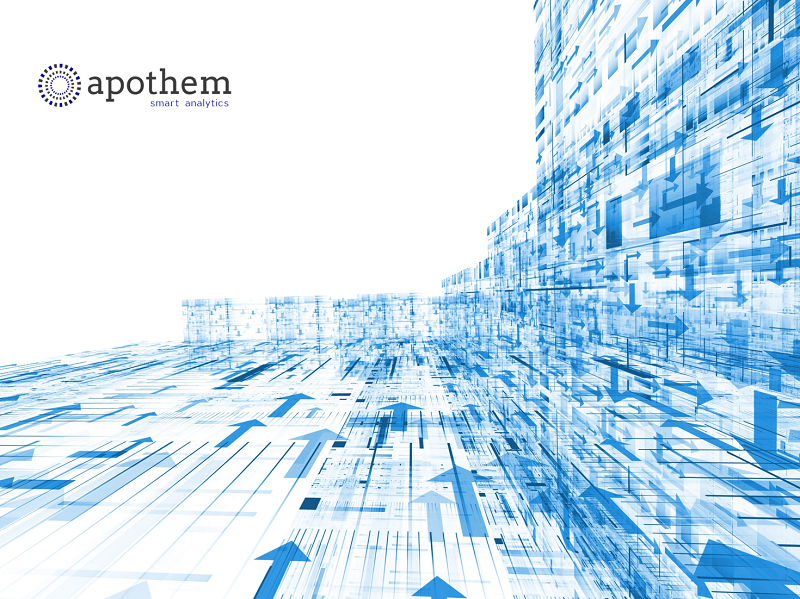
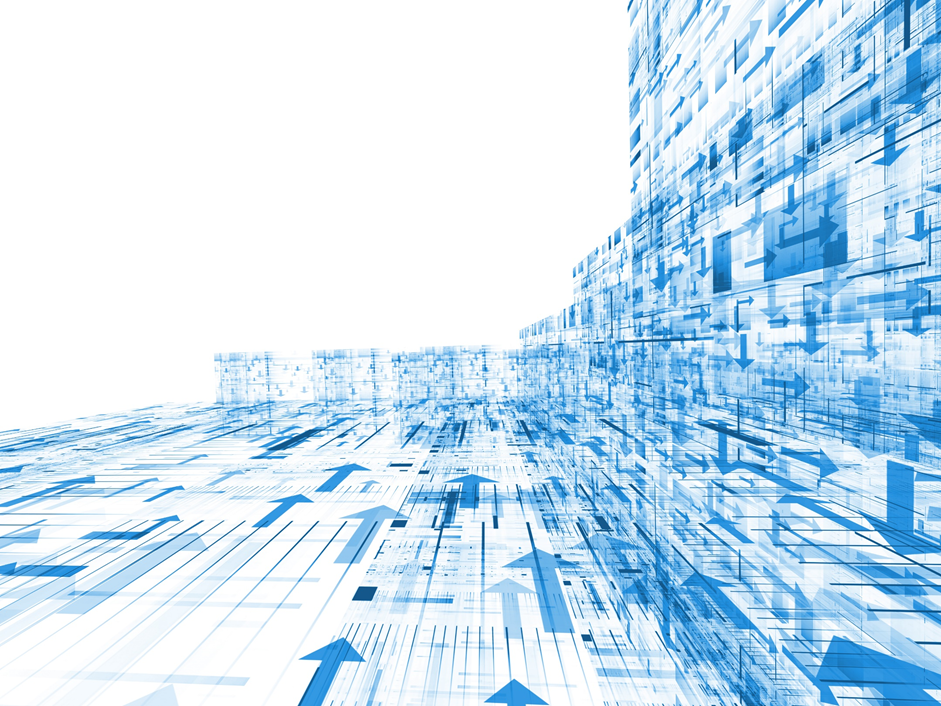
Scales ChartViewer to screen size to prevent overflow

diff --git a/html_files/ChartViewer.html b/html_files/ChartViewer.html
@@ -2,7 +2,7 @@
 
 {% block content %}
 <div class="row"> 	
-	<div class="col-xs-3" style="background-color: rgb(240,247,253); height: 650px; overflow-y: auto; overflow-x: hidden;" id="left_options_bar">	
+	<div class="col-xs-3" style="background-color: rgb(240,247,253); height: 93vh; overflow-y: auto; overflow-x: hidden;" id="left_options_bar">	
 		
 		<form method="post">
 			<div class="hidden">
@@ -70,18 +70,6 @@
 					<label class="radio-inline"><input type="radio" name="moneda" value="02" id=""> UDIS </label>
 				</div>
 			</div>
-
-
-
-<!-- 			<div class="row hidden" style="margin-top: 10px;" id="intervalo">
-				<div class="col-xs-12">
-					<label> Intervalos</label><br>
-					<label class="radio-inline"><input type="radio" name="intervalo" value="total" checked="checked"> Meses </label>
-					<label class="radio-inline"><input type="radio" name="intervalo" value="total"> Trimestres </label>
-					<label class="radio-inline"><input type="radio" name="intervalo" value="marginal"> Años </label>
-				</div>
-			</div> -->
-
 
 			<div class="row hidden" style="margin-top: 10px;" id="vista">
 				<div class="col-xs-12">
@@ -237,7 +225,7 @@
 	<div class="col-xs-9" style="padding-left: 30px;"> 
 		<div class="SlideDisplaySection" style="padding: 0px" id="SlideDisplaySection">
 		
-			<img src="images/Portada.png" id="imagen_portada">
+			<img style="height: 100%; width: 100%" src="images/Portada.png" id="imagen_portada">
 		
 			<div id="ChartLead" style="margin-right: 15px; margin-left: 15px;">
 				<div class="row"><div class="col-xs-12"><span id="chart_lead" class="ChartLead"></span></div></div>
@@ -245,7 +233,7 @@
 				<hr style="margin-top:5px; margin-bottom: 0px;">
 			</div>
 			<div class="loader hidden" style="margin-left: 300px; margin-top: 200px;" id="chart_loader"></div>
-			<div class="row" style=""><div class="col-xs-12"><div id="chart_div" class="hidden" style="margin-left: 10px; height:490px;"></div></div></div>
+			<div class="row" style=""><div class="col-xs-12"><div id="chart_div" class="hidden" style="margin-left: 10px; height: 75vh;"></div></div></div>
 			<div class="row hidden" id="MensajeError" ><div class="col-xs-12"> <span style="font-size: 100px; padding-left: 42%; padding-top: 10%; color:#337ab7;" class="glyphicon glyphicon-warning-sign"></span><h3 style="text-align: center; color:#337ab7" id="TextoMensajeError">Hubo un problema al intentar obtener los datos para generar la gráfica según los campos seleccionados. <br><br> Favor de modificar su selección e intentarlo nuevamente</h3></div></div>				
 		</div>		
 	</div>

diff --git a/bootstrap/css/main.css b/bootstrap/css/main.css
@@ -30,8 +30,8 @@
   border-style: solid;  
   border-color: #0000ff;
   
-  width: 800px;
-  height: 600px;
+  /*width: 800px;*/
+  height: 88vh;
 
   margin-bottom:8px;
   margin-right:5px;
@@ -133,6 +133,10 @@
     font-size: 16px;
 }
 
-
+/*img {
+    max-width: 100%;
+    height: auto;
+    width: auto\9; /* ie8 */
+}*/
 
 

diff --git a/html_files/base.html b/html_files/base.html
@@ -15,7 +15,7 @@
 
 <body class="">
 
-	<div class="" style="background-color:rgb(39,64,139);">
+	<div class="" style="background-color:rgb(39,64,139); height: 7vh">
 		<div class="container">
 			
 			<div class="row" style="min-height: 42px;">			
